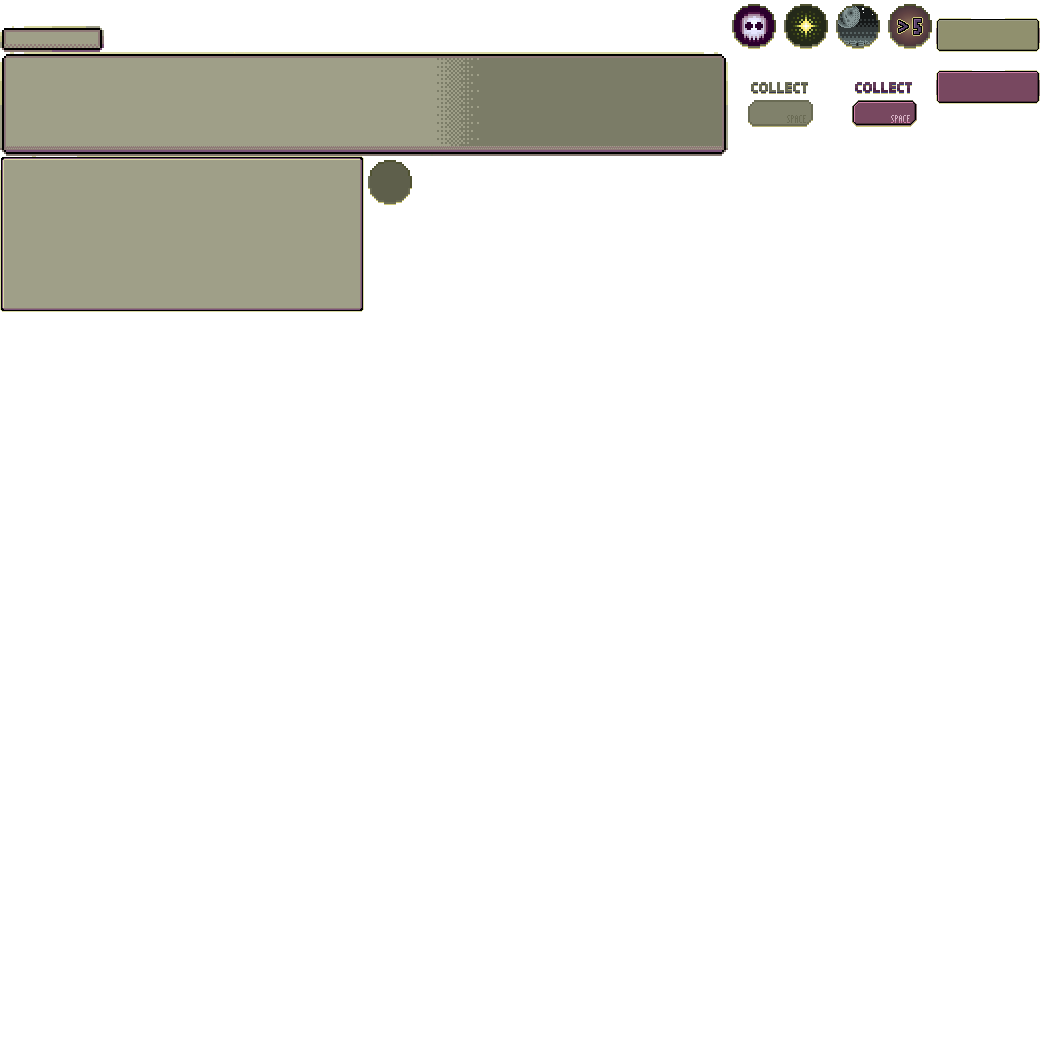
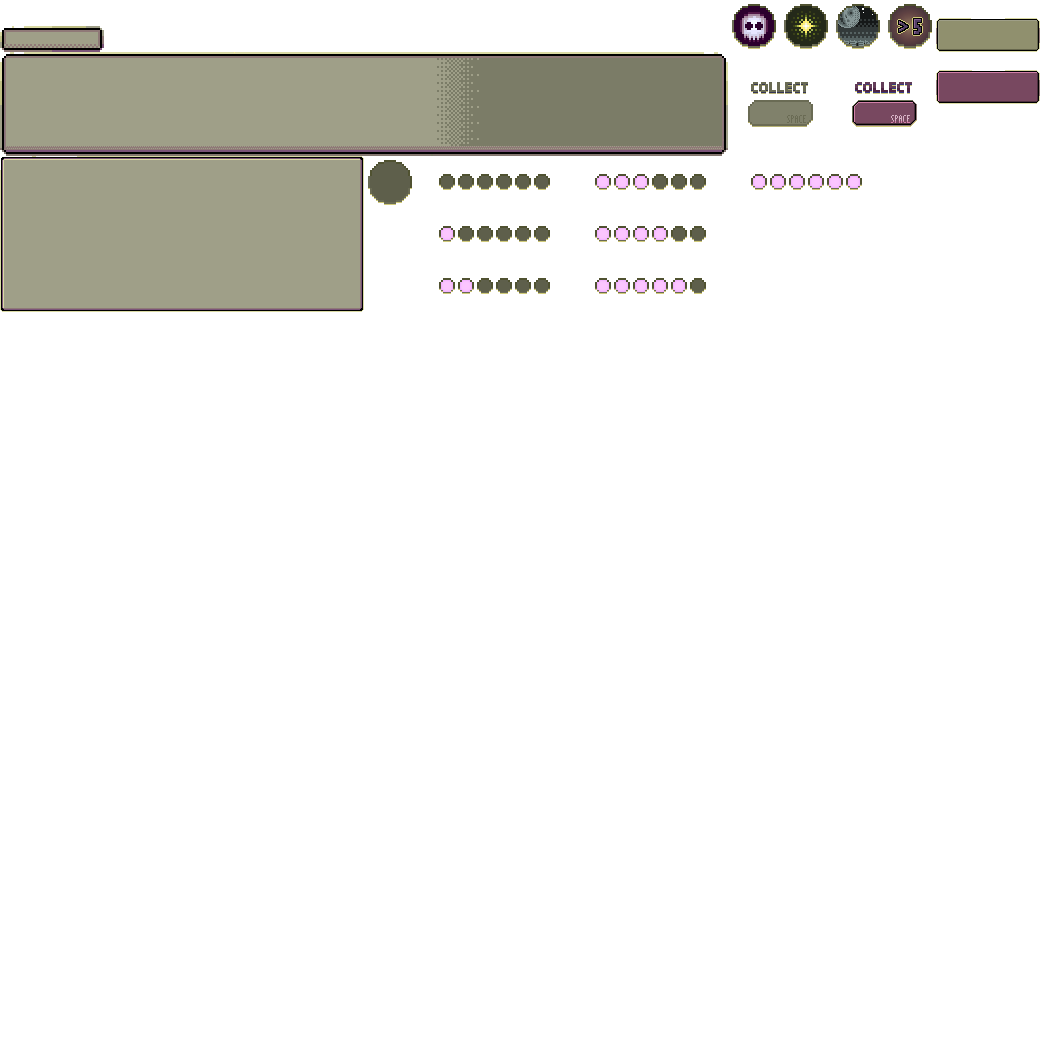
Moves indicator added

diff --git a/src/plugins/ControlsPlugin.js b/src/plugins/ControlsPlugin.js
@@ -1,6 +1,7 @@
 import CollectButton from "@sprites/CollectButton";
 import ScoreIcon from "@sprites/ScoreIcon";
 import EffectIcon from "@sprites/EffectIcon";
+import MovesIndicator from "@sprites/MovesIndicator";
 import { selectByMaxValue } from "@utils/data";
 import {
     BUTTON_CLOSE_X,
@@ -23,6 +24,7 @@ export default class ControlsPlugin extends Phaser.Plugins.BasePlugin
     #buttonCollect = null;
     #iconScore = null;
     #iconEffect = null;
+    #movesIndicator = null;
     #toggleSound = null;
     #soundActive = true;
     #soundLabel = null;
@@ -97,6 +99,15 @@ export default class ControlsPlugin extends Phaser.Plugins.BasePlugin
                 this.#iconEffect.setNone();
                 break;
         }
+    }
+
+    addMovesIndicator() {
+        const uiScene = this.#game.scene.getScene('ui');
+        this.#movesIndicator = new MovesIndicator(uiScene);
+    }
+
+    setMovesIndicator(moves = 0) {
+        this.#movesIndicator.setMoves(moves);
     }
 
     addCloseButton(callback = Function.prototype) {

diff --git a/src/scenes/UiScene.js b/src/scenes/UiScene.js
@@ -33,6 +33,7 @@ export default class UIScene extends Phaser.Scene
         controls.addCollectButton();
         controls.addScoreIcon();
         controls.addEffectIcon();
+        controls.addMovesIndicator();
 
         // Restart game on close button click
         controls.addCloseButton(() => {
@@ -44,7 +45,8 @@ export default class UIScene extends Phaser.Scene
         // Todo - toggle sound ON / OFF
         controls.addSoundToggle();
 
-        eventsCentre.on('updateUi', () => {
+        eventsCentre.on('updateUi', params => {
+            const { moves } = params;
             const {
                 controls,
                 score,
@@ -53,6 +55,7 @@ export default class UIScene extends Phaser.Scene
 
             controls.setScoreIcon(score.points);
             controls.setEffectIcon(spell.current);
+            controls.setMovesIndicator(moves);
 
             if (notification.queue.length) {
                 this.scene.pause('main');

diff --git a/src/sprites/MovesIndicator.js b/src/sprites/MovesIndicator.js
@@ -1,0 +1,31 @@
+import {
+    DIALOG_PANEL_X,
+    DIALOG_PANEL_Y,
+} from "@constants";
+import { tree as treeMechanics } from "@utils/mechanics";
+
+export default class MovesIndicator extends Phaser.GameObjects.Sprite
+{
+    constructor(scene, x = 0, y = 0) {
+        super(
+            scene,
+            DIALOG_PANEL_X + 471,
+            DIALOG_PANEL_Y + 104,
+            'ui',
+            'movesIndicator0'
+        ).setOrigin(0, 0)
+        .setName('movesIndicator');
+
+        this.scene.add.existing(this);
+    }
+    
+    setMoves(moves = 0) {
+        const { constants: {
+            MOVES_CHECK,
+        } } = treeMechanics;
+        const frames = 7;
+        const pointer = Math.floor((moves % MOVES_CHECK) / MOVES_CHECK * frames);
+
+        this.setFrame(`movesIndicator${pointer}`);
+    }
+}

diff --git a/src/scenes/MainScene.js b/src/scenes/MainScene.js
@@ -151,7 +151,7 @@ export default class MainScene extends Phaser.Scene
 
             eventsCentre.emit('updateDialogs');
             eventsCentre.emit('applySpell');
-            eventsCentre.emit('updateUi');
+            eventsCentre.emit('updateUi', { moves: this.moves });
         });
 
         // Apply spell
@@ -269,7 +269,7 @@ export default class MainScene extends Phaser.Scene
         basement.setOrigin(0, 0);
         staircase.setOrigin(0, 0);
         
-        this.registry.debugText = this.add.text(0, 0, 'Debug Info...');
+        this.registry.debugText = this.add.text(0, 0, '');
     }
 
     #debugInfoOnScreen() {

diff --git a/src/sprites/EffectIcon.js b/src/sprites/EffectIcon.js
@@ -9,11 +9,11 @@ export default class EffectIcon extends Phaser.GameObjects.Sprite
         super(
             scene,
             DIALOG_PANEL_X + 487,
-            DIALOG_PANEL_Y + 82,
+            DIALOG_PANEL_Y + 63,
             'ui',
             'iconNoEffect'
         ).setOrigin(0, 0)
-        .setName('scoreIcon');
+        .setName('effectIcon');
 
         this.scene.add.existing(this);
         this.setNone();

diff --git a/src/sprites/ScoreIcon.js b/src/sprites/ScoreIcon.js
@@ -9,7 +9,7 @@ export default class ScoreIcon extends Phaser.GameObjects.Sprite
         super(
             scene,
             DIALOG_PANEL_X + 557,
-            DIALOG_PANEL_Y + 82,
+            DIALOG_PANEL_Y + 63,
             'ui',
             'iconLabour'
         ).setOrigin(0, 0)
